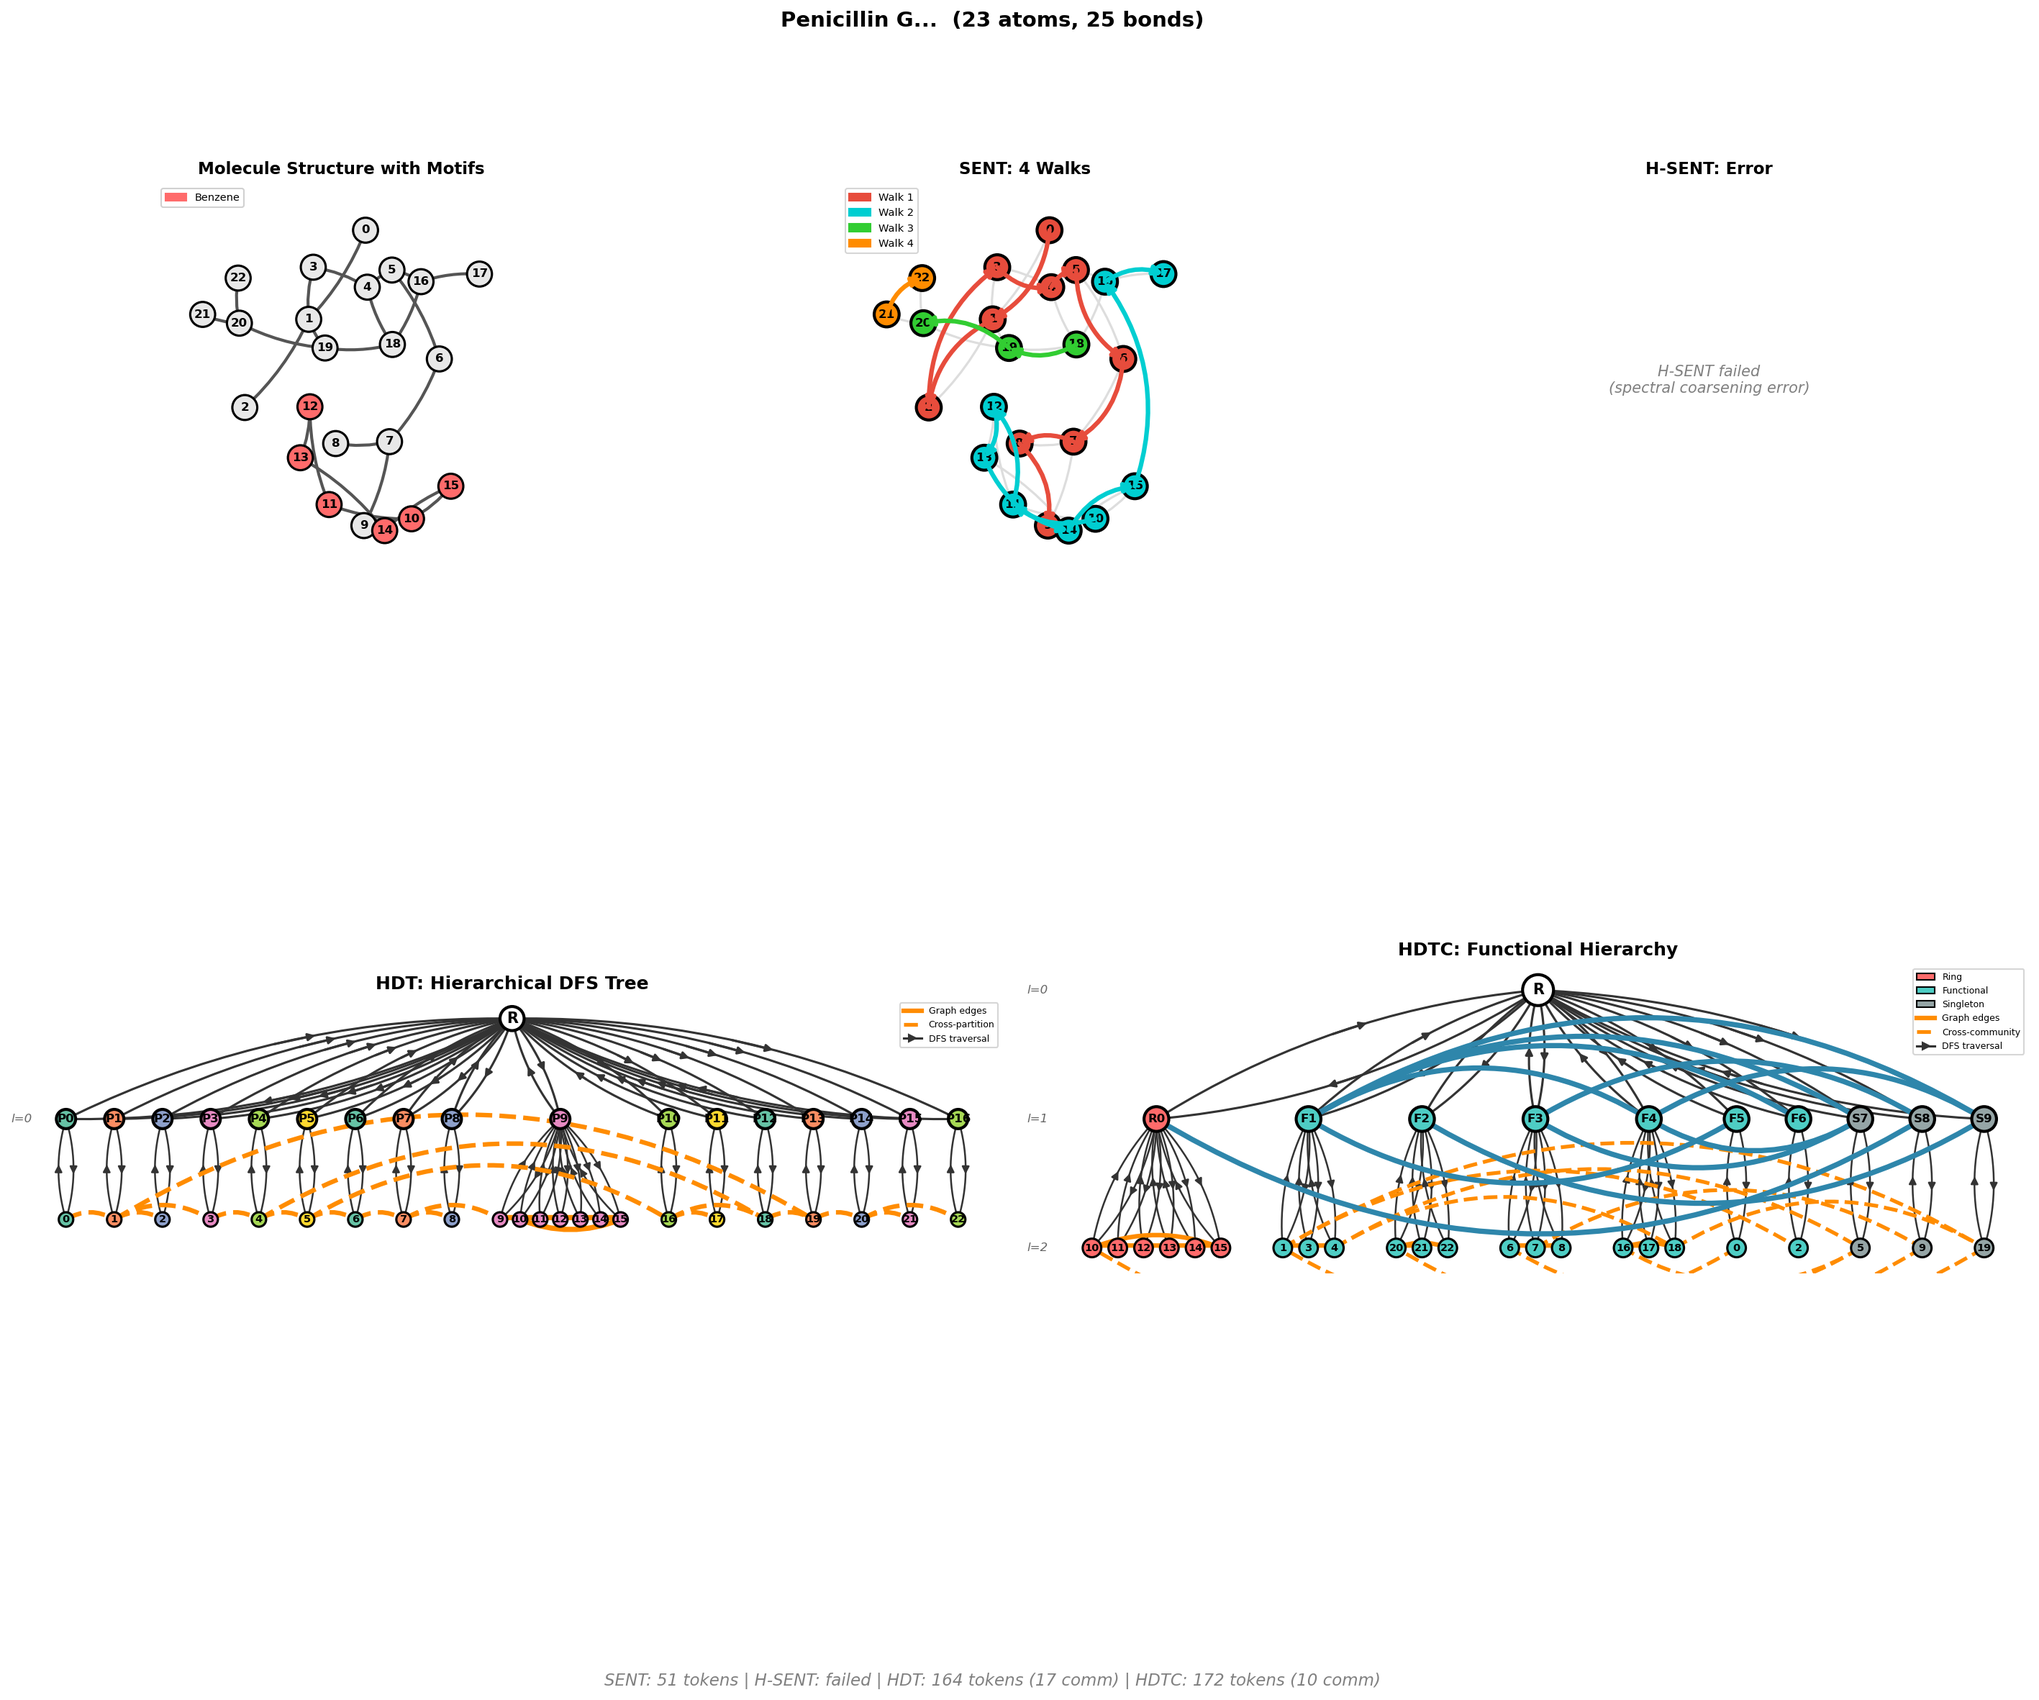
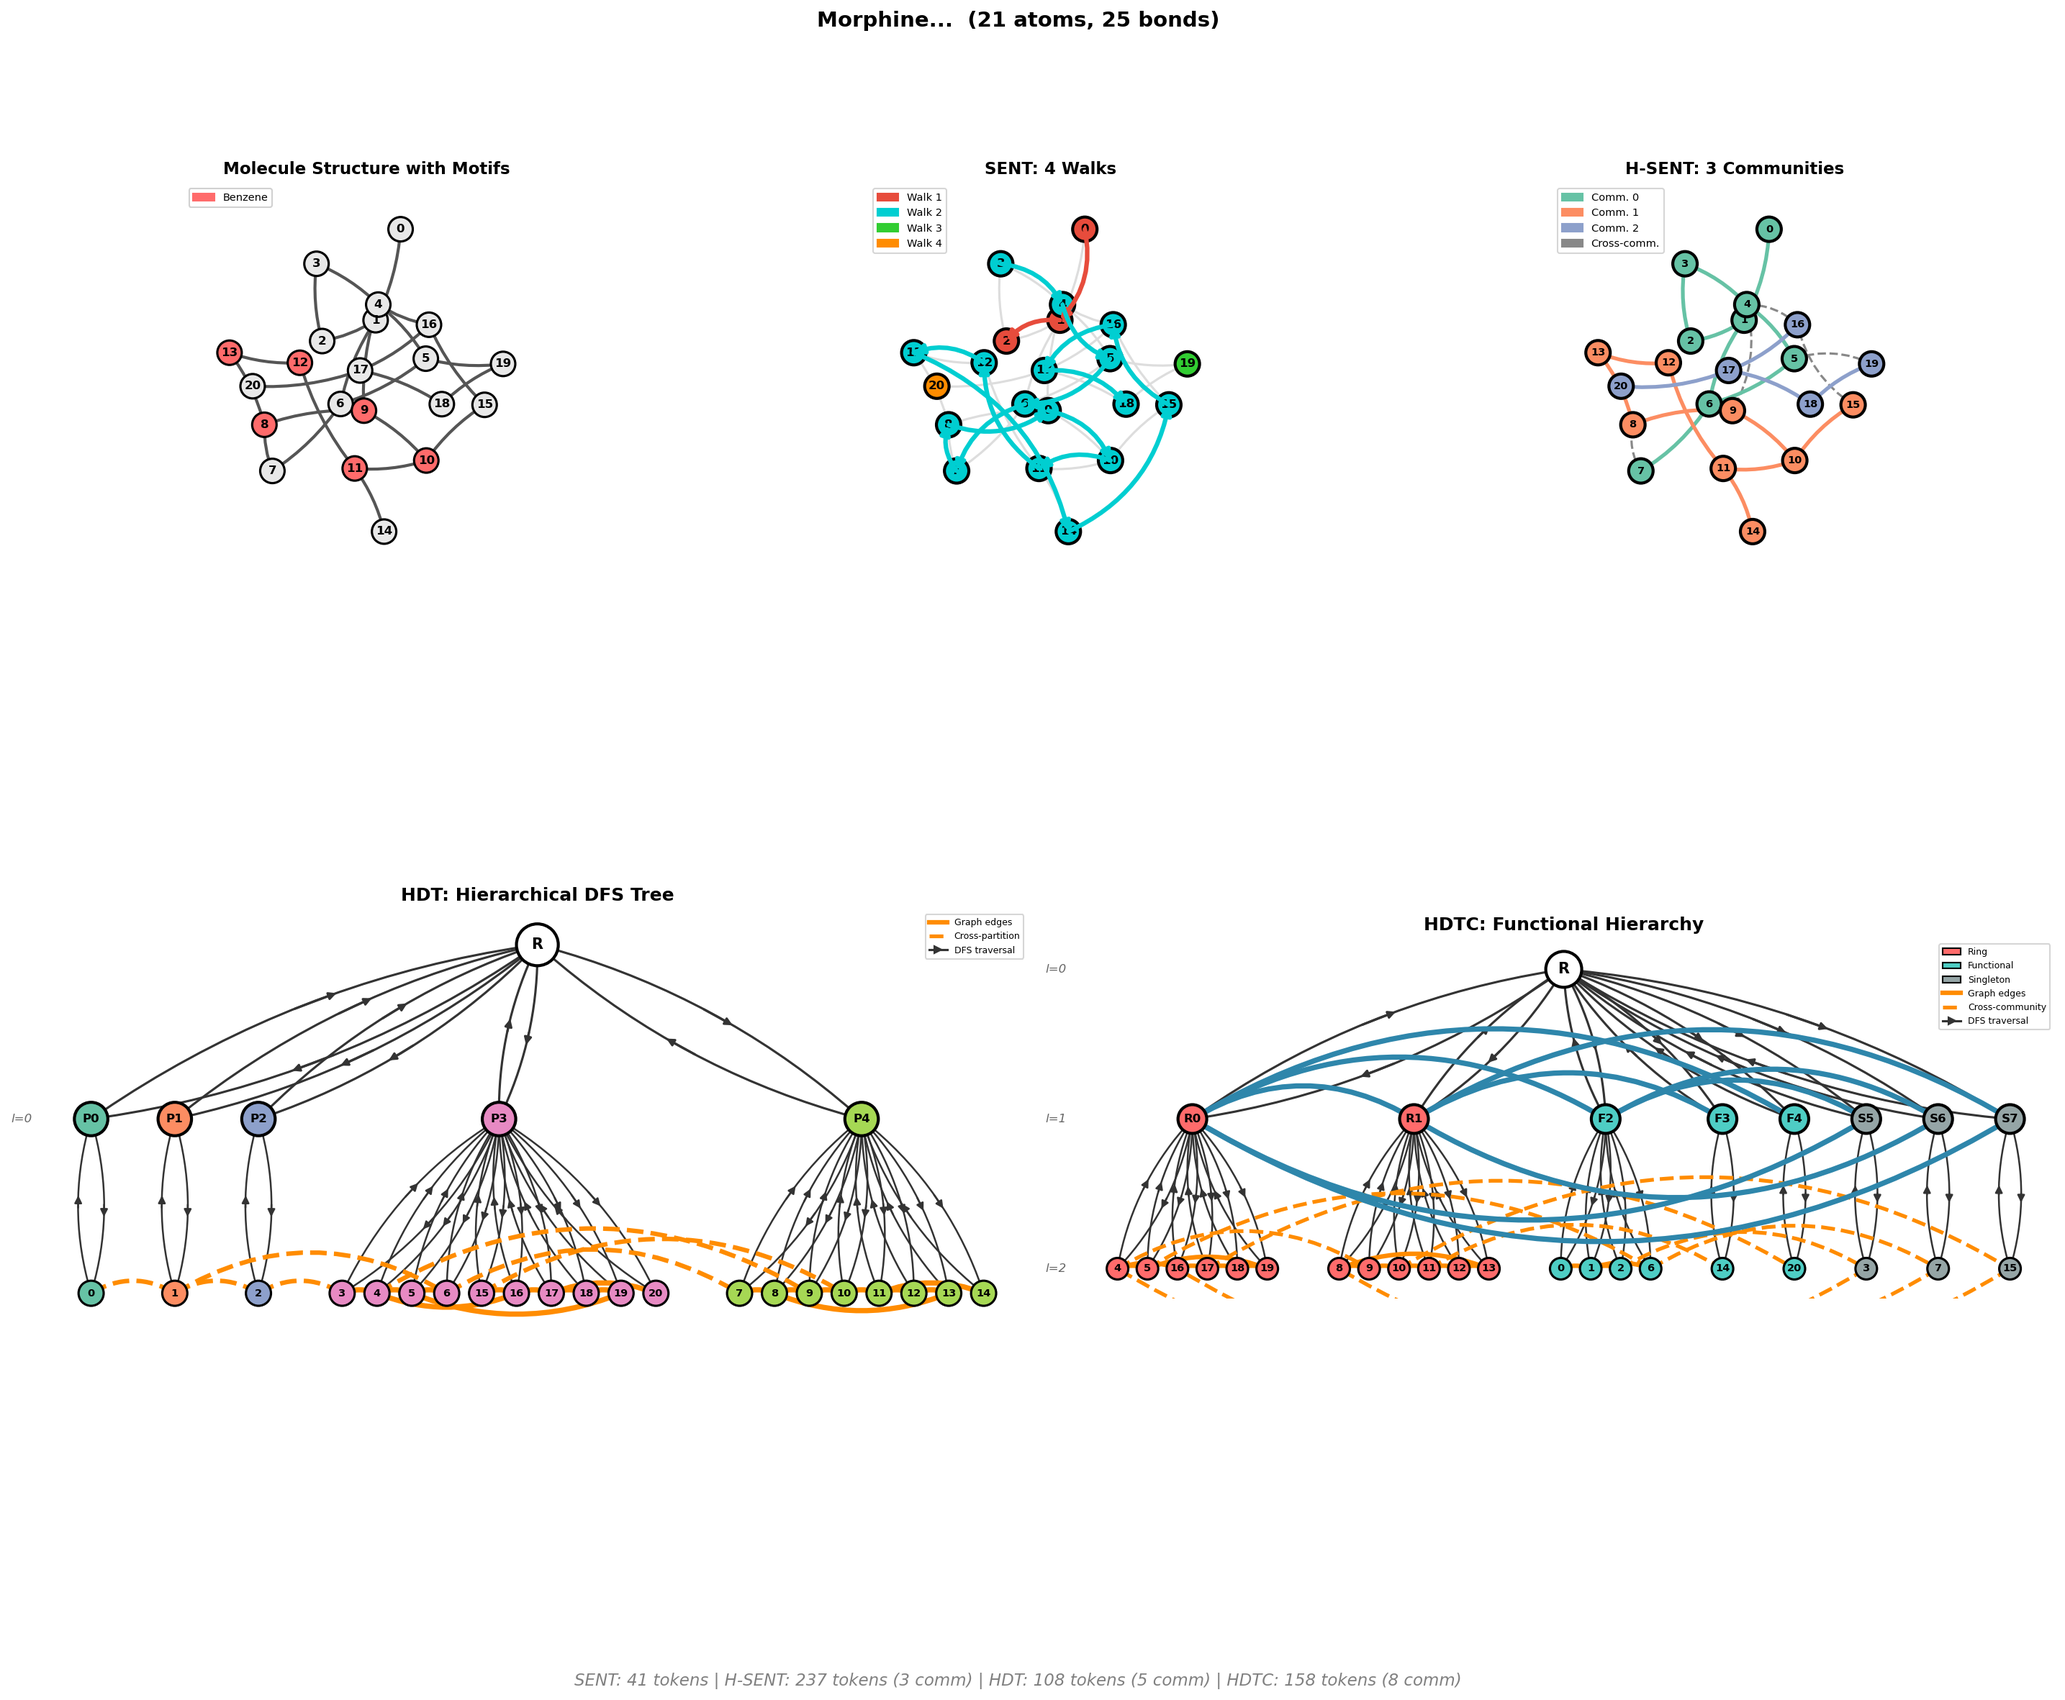
reorganized all filles

diff --git a/docs/tokenization.md b/docs/tokenization.md
@@ -238,6 +238,110 @@ Reconstruct by:
 
 ---
 
+## 4. HDTC (Hierarchical DFS Tokenization - Compositional)
+
+HDTC uses **functional group detection** instead of spectral clustering to build a two-level flat hierarchy that **guarantees** chemical motif preservation.
+
+### Key Differences from HDT
+
+| Aspect | HDT | HDTC |
+|--------|-----|------|
+| Hierarchy Structure | Recursive multi-level | Two-level flat |
+| Coarsening Method | Spectral clustering | Functional group detection (SMARTS) |
+| Community Definition | Spectral partitions | Ring + functional group + singleton |
+| Motif Guarantee | No (may split motifs) | **Yes (preserves by design)** |
+| Super-structure | Implicit via DFS | **Explicit super-graph** |
+
+### Token Vocabulary
+
+| ID | Token | Description |
+|----|-------|-------------|
+| 0 | SOS | Start of sequence |
+| 1 | EOS | End of sequence |
+| 2 | PAD | Padding |
+| 3 | COMM_START | Start community block |
+| 4 | COMM_END | End community block |
+| 5 | LEDGE | Left edge bracket |
+| 6 | REDGE | Right edge bracket |
+| 7 | SUPER_START | Start super-graph block |
+| 8 | SUPER_END | End super-graph block |
+| 9 | TYPE_RING | Community type: ring |
+| 10 | TYPE_FUNC | Community type: functional group |
+| 11 | TYPE_SINGLETON | Community type: singleton |
+| 12+ | Indices | Value + 12 |
+
+### Sequence Grammar
+
+```
+sequence := [SOS] community* super_graph? [EOS]
+community := [COMM_START] <type> <comm_id> atoms [COMM_END]
+atoms := (atom back_edges?)+
+atom := <global_idx>
+back_edges := [LEDGE] <targets>* [REDGE]
+super_graph := [SUPER_START] super_edge* [SUPER_END]
+super_edge := <src_comm> <dst_comm> <src_atom> <dst_atom>
+```
+
+### Community Types
+
+HDTC classifies atoms into three community types based on functional group detection:
+
+| Type | Token | Description | Examples |
+|------|-------|-------------|----------|
+| **Ring** | TYPE_RING (9) | Cyclic structures detected via SMARTS | benzene, pyridine, cyclohexane |
+| **Functional** | TYPE_FUNC (10) | Multi-atom functional groups | carboxyl, ester, amide, nitro |
+| **Singleton** | TYPE_SINGLETON (11) | Remaining atoms not in detected groups | chain carbons, undetected substituents |
+
+### Example: Phenol (benzene + OH)
+
+Phenol has a benzene ring with a hydroxyl group attached:
+
+```
+[SOS] [COMM_START] TYPE_RING 12 12 13 [LEDGE] 12 [REDGE] 14 [LEDGE] 12 13 [REDGE] 15 [LEDGE] 14 [REDGE] 16 [LEDGE] 13 15 [REDGE] 17 [LEDGE] 12 16 [REDGE] [COMM_END] [COMM_START] TYPE_FUNC 13 18 [COMM_END] [SUPER_START] 12 13 17 18 [SUPER_END] [EOS]
+```
+
+**Token breakdown**:
+
+**Community 0 (Ring)**: `[COMM_START] TYPE_RING 12 ... [COMM_END]`
+- `TYPE_RING` = ring community (benzene)
+- `12` = community ID 0
+- `12 13 14 15 16 17` = global atoms 0-5 (benzene carbons) with back-edges for ring closure
+
+**Community 1 (Functional)**: `[COMM_START] TYPE_FUNC 13 18 [COMM_END]`
+- `TYPE_FUNC` = functional group community (hydroxyl)
+- `13` = community ID 1
+- `18` = global atom 6 (oxygen)
+
+**Super-graph**: `[SUPER_START] 12 13 17 18 [SUPER_END]`
+- `12 13` = edge between community 0 and 1
+- `17 18` = connecting atoms (carbon 5 → oxygen 6)
+
+### Functional Group Detection
+
+HDTC uses SMARTS patterns organized by priority:
+
+| Priority | Type | Examples |
+|----------|------|----------|
+| 30 (highest) | Ring | benzene, pyridine, naphthalene, cyclohexane |
+| 20 | Multi-atom | carboxyl, ester, amide, nitro, nitrile |
+| 10 (lowest) | Single-atom | hydroxyl, halides, amines |
+
+When patterns overlap, higher-priority patterns take precedence to ensure rings are preserved intact.
+
+### Complexity
+
+- **Token count**: O(n + m + c) where n = nodes, m = edges, c = community count
+- **Vocabulary size**: 12 + n_max
+
+### Flattening
+
+Reconstruct by:
+1. Parsing community blocks to get atoms and internal edges from back-edges
+2. Parsing super-graph block to get inter-community edges
+3. Union of all edges
+
+---
+
 ## Comparison Summary
 
 ### Token Count (Two Triangles Example)
@@ -247,6 +351,7 @@ Reconstruct by:
 | SENT | ~18 | 2 (SOS/EOS) + 6 (nodes) + 10 (back-edges + reset) |
 | H-SENT | ~35 | 2 (SOS/EOS) + 2 (num_comm) + 22 (partitions) + 9 (bipartite) |
 | HDT | ~25 | 2 (SOS/EOS) + 8 (hierarchy markers) + 6 (nodes) + 9 (back-edges) |
+| HDTC | ~28 | 2 (SOS/EOS) + 8 (community markers) + 6 (nodes) + 12 (back-edges + super-graph) |
 
 ### When to Use Which
 
@@ -255,7 +360,8 @@ Reconstruct by:
 | Simple graphs, baseline | **SENT** | No hierarchy overhead |
 | Debugging, interpretability | **H-SENT** | Explicit structure |
 | Production, large graphs | **HDT** | ~45% fewer tokens than H-SENT |
-| Motif preservation | **H-SENT** or **HDT** | Hierarchical structure |
+| Motif preservation (spectral) | **H-SENT** or **HDT** | Hierarchical structure |
+| **Chemical motif guarantee** | **HDTC** | Functional groups preserved by design |
 
 ---
 
@@ -276,3 +382,4 @@ All tokenizers support configurable node ordering within partitions:
 
 1. **AutoGraph**: SENT tokenization - arXiv:2306.10310
 2. **HiGen**: Hierarchical Graph Generative Networks - arXiv:2305.19337
+3. **HDTC**: Compositional tokenization with functional group preservation (this work)

diff --git a/docs/visualization.md b/docs/visualization.md
@@ -4,39 +4,37 @@ This document describes the graph tokenization systems and how to visualize them
 
 ## Overview
 
-MOSAIC provides three tokenization schemes for converting graphs to sequences:
+MOSAIC provides four tokenization schemes for converting graphs to sequences:
 
 | Scheme | Description | Key Feature |
 |--------|-------------|-------------|
 | **SENT** | Flat random walk with back-edges | Simple, baseline |
 | **H-SENT** | Hierarchical with explicit partition blocks | Interpretable structure |
 | **HDT** | Hierarchical DFS with implicit nesting | ~45% fewer tokens |
+| **HDTC** | Compositional with functional groups | Guarantees chemical motif preservation |
 
 ## Visualization
 
-### Quick Start: Compare All Three Schemes
+### Quick Start: Compare Tokenization Schemes
 
 ```bash
 conda activate mosaic
 
-# Compare SENT, H-SENT, and HDT on a molecule
-python scripts/visualize_tokenization.py --name cholesterol
+# Compare SENT, H-SENT, HDT, and HDTC on a molecule
+python scripts/visualization/visualize_tokenization.py --name cholesterol --output-dir ./figures
 
 # Run demo with complex molecules (cholesterol, morphine, caffeine, penicillin)
-python scripts/visualize_tokenization.py --demo --output-dir ./figures
-
-# Save without displaying
-python scripts/visualize_tokenization.py --name morphine --output morphine.png --no-show
+python scripts/visualization/visualize_tokenization.py --demo --output-dir ./figures
 
 # List available molecules
-python scripts/visualize_tokenization.py --list
+python scripts/visualization/visualize_tokenization.py --list
 ```
 
 ![tokenization](figure/tokenization.png)
 
 ### Visualization Panels
 
-The 4-column comparison shows:
+The comparison shows:
 
 | Panel | Description |
 |-------|-------------|
@@ -44,36 +42,45 @@ The 4-column comparison shows:
 | **SENT** | Random walk traversal with visit order on nodes |
 | **H-SENT** | Community structure with cross-community edges |
 | **HDT** | Hierarchical tree with bidirectional parent↔child arrows |
+| **HDTC** | Two-level functional hierarchy with ring/functional group communities |
 
 Compare standard vs motif-aware coarsening:
 
-```python
+```bash
 # Compare standard vs motif-aware coarsening
-python scripts/visualize_motif_coarsening.py --name cholesterol --alpha 10.0
-python scripts/visualize_motif_coarsening.py --demo --output-dir ./figures
+python scripts/visualization/visualize_motif_aware_sc.py --name cholesterol --alpha 10.0
+python scripts/visualization/visualize_motif_aware_sc.py --demo --output-dir ./figures
 ```
 
 ![motif](figure/motif.png)
 
 Visualize the $M$ matrix:
 
-```python
-# Custom SMILES                                                                                            
-python scripts/visualize_m.py --smiles "c1ccc2ccccc2c1" --name naphthalene                                 
-                                                                                                            
-# Demo with 9 complex molecules                                                                            
-python scripts/visualize_m.py --demo --output-dir ./figures                                                
-                                                                                                            
-# List all molecules with motif counts                                                                     
-python scripts/visualize_m.py --list                                                                       
-                                                                                                            
-# Normalize M by motif size (prevents large motifs from dominating)                                        
-python scripts/visualize_m.py --name cholesterol --normalize
+```bash
+# Custom SMILES
+python scripts/visualization/visualize_motif_m_matrix.py --smiles "c1ccc2ccccc2c1" --name naphthalene
+
+# Demo with 9 complex molecules
+python scripts/visualization/visualize_motif_m_matrix.py --demo --output-dir ./figures
+
+# List all molecules with motif counts
+python scripts/visualization/visualize_motif_m_matrix.py --list
+
+# Normalize M by motif size (prevents large motifs from dominating)
+python scripts/visualization/visualize_motif_m_matrix.py --name cholesterol --normalize
 ```
 
 ![m_matrix](figure/m_matrix.png)
 
-## References
+### Generation Demo
 
+Visualize step-by-step molecule generation with animated comparisons:
+
+```bash
+# Generate animation comparing tokenization schemes
+python scripts/visualization/generation_demo.py --name cholesterol --output cholesterol_gen.gif
+```
+
+## References
 - [HiGen: Hierarchical Graph Generative Networks](https://arxiv.org/abs/2305.19337) - Hierarchical decomposition approach
 - [AutoGraph](https://arxiv.org/abs/2306.10310) - SENT tokenization scheme

diff --git a/docs/hgraph.md b/docs/hgraph.md
@@ -49,7 +49,7 @@ $$E_{ij} = \{(u, v) \in E : u \in C_i \land v \in C_j\}$$
 
 ### Coarsening Strategies
 
-Three strategies are available for partitioning nodes into communities:
+Four strategies are available for partitioning nodes into communities:
 
 #### 1. Spectral Clustering (SC)
 
@@ -160,6 +160,68 @@ $$\text{Cohesion} = \frac{|\{m \in \mathcal{M} : m \subseteq C_i \text{ for some
 
 A motif is "intact" if all its atoms belong to a single community. Cohesion of 1.0 means all motifs are preserved.
 
+#### 4. Functional Group Coarsening (HDTC)
+
+The most direct approach to motif preservation: use functional group detection as the partitioning criterion itself.
+
+**Process**:
+1. **Detect functional groups** via SMARTS patterns with priority-based overlap resolution
+2. **Assign atoms to communities**:
+   - Each detected group → one community
+   - Remaining atoms → singleton communities
+3. **Build super-graph** representing inter-community connectivity
+
+**Key advantage**: Guarantees 100% motif cohesion by construction, since functional groups define the communities directly.
+
+**Two-Level Hierarchy**:
+
+Unlike SC/HAC which produce multi-level recursive hierarchies, functional coarsening produces a flat two-level structure:
+
+| Level | Content |
+|-------|---------|
+| **Level 1** | Communities (rings, functional groups, singletons) |
+| **Level 2** | Super-graph (community-to-community edges) |
+
+**Functional Group Priority**:
+
+When SMARTS patterns overlap, higher-priority patterns take precedence:
+
+| Priority | Type | Rationale |
+|----------|------|-----------|
+| 30 (highest) | Ring systems | Preserve cyclic structures intact |
+| 20 | Multi-atom groups | Carboxyl, ester, amide, etc. |
+| 10 (lowest) | Single-atom groups | Hydroxyl, halides, amines |
+
+**Detected Pattern Types**:
+
+*Ring patterns* (priority 30):
+- Aromatic 6-membered: benzene, pyridine, pyrimidine, pyrazine
+- Aromatic 5-membered: pyrrole, furan, thiophene, imidazole
+- Fused rings: naphthalene, indole, quinoline
+- Saturated: cyclopropane, cyclobutane, cyclopentane, cyclohexane
+
+*Functional group patterns* (priority 20):
+- Carboxylic acid derivatives: carboxyl, ester, amide, anhydride
+- Carbonyl derivatives: aldehyde, ketone
+- Nitrogen-containing: nitro, nitrile, imine, azo
+- Sulfur-containing: sulfonyl, sulfoxide, thioether
+- Phosphorus-containing: phosphate, phosphonate
+
+*Single-atom patterns* (priority 10):
+- Halogens: fluoride, chloride, bromide, iodide
+- Oxygen: hydroxyl, ether oxygen, epoxide
+- Nitrogen: primary/secondary/tertiary amine
+- Carbon: methyl, tert-butyl, isopropyl
+
+**Example: Aspirin (acetylsalicylic acid)**
+
+Detected communities:
+1. Benzene ring (6 atoms) - TYPE_RING
+2. Ester group (C=O-O-) - TYPE_FUNC
+3. Carboxyl group (C=O-OH) - TYPE_FUNC
+
+Super-edges connect these communities.
+
 ---
 
 ## 2. Flattening
@@ -224,3 +286,4 @@ This is verified by roundtrip tests on synthetic graphs (triangles, paths, stars
 2. **Spectral Clustering**: Ng, Jordan, Weiss (2001) - On Spectral Clustering
 3. **Modularity**: Newman (2006) - Modularity and community structure in networks
 4. **HAC**: Müllner (2011) - Modern hierarchical, agglomerative clustering algorithms
+5. **HDTC**: Compositional tokenization with functional group preservation (this work)
